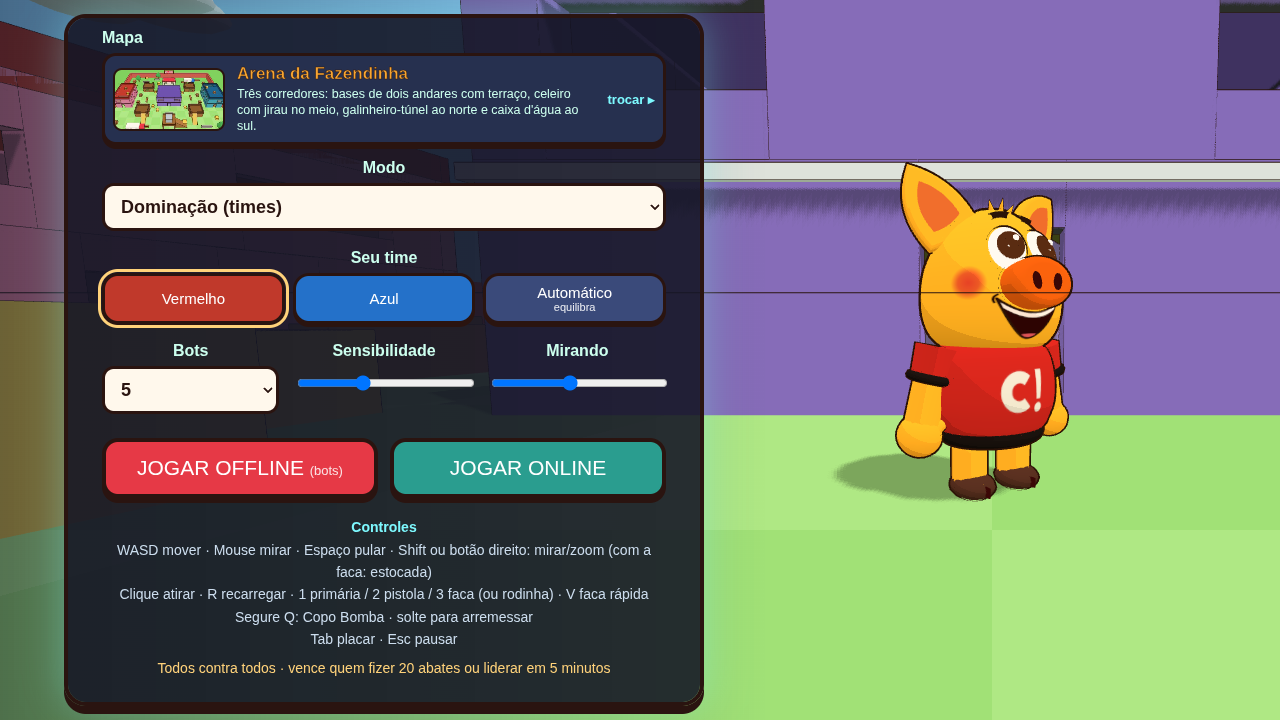
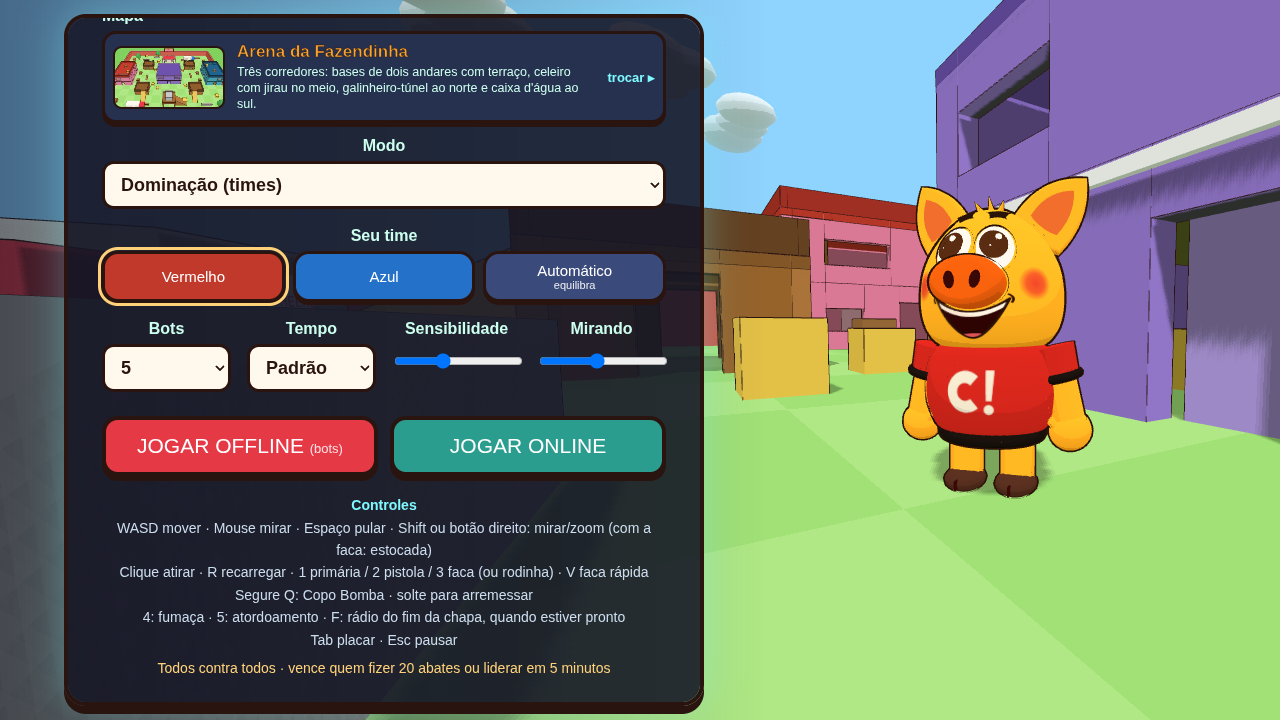
Modo Bomba (protótipo): README, patch notes (em teste) e test-online-bomb.mjs; spawn não cai em cima do colega

diff --git a/PATCH_NOTES.md b/PATCH_NOTES.md
@@ -4,7 +4,17 @@ Jogue em **https://docao.mvalentim.dev**
 
 ---
 
-## v1.6.1 — Respiro 💚 (21/10/2026)
+## 🧪 Em teste — Modo Bomba: Planta o Botijão 💣🔥 (protótipo, branch `feature/modo-bomba`)
+Ainda **não está no site**. Primeiro protótipo de um modo estilo Valorant, com o Docão:
+- **Ataque × Defesa** (Vermelho × Azul). O Ataque leva o **Botijão do Churrasco** até o site **A** ou **B** e segura **E** por 4 s pra plantar. A Defesa segura **E** por 7 s pra desarmar (passou da metade, fica salvo).
+- Plantou: o botijão **bipa cada vez mais rápido** e **explode em 45 s**, levando todo mundo num raio de 16 m.
+- Rodada: 10 s de preparação (parado no spawn), 100 s pra plantar. Explodiu = ponto do Ataque; desarmou ou o tempo acabou = ponto da Defesa.
+- **Primeiro a 13 rodadas vence.** Depois da 12ª: **"Troca de lado!"**
+- O **renascimento continua normal** (5 s + RENASCER), no spawn do seu lado. A rodada não acaba por eliminação.
+- Sites A/B marcados no chão e na tela (seta com a distância) nos 7 mapas. Bots plantam, escoltam, guardam os sites e desarmam.
+- Funciona offline e online.
+
+ — Respiro 💚 (21/10/2026)
 - **Vida regenera fora de combate:** levou dano de outro Docão e ficou **5 segundos** sem apanhar? A vida volta sozinha, **+10 por segundo**, até 100. Levou dano de novo, os 5 segundos recomeçam.
 - **Mas só se o dano não foi seu:** se o último dano veio de você mesmo (foguete da bazuca no pé, seu próprio Copo Bomba, seu míssil), não regenera, e isso cancela a regeneração que ia começar. Quer a vida de volta? Fica longe da própria explosão.
 - Enquanto regenera, a barra de vida brilha verdinho com um "+" pulsando.
